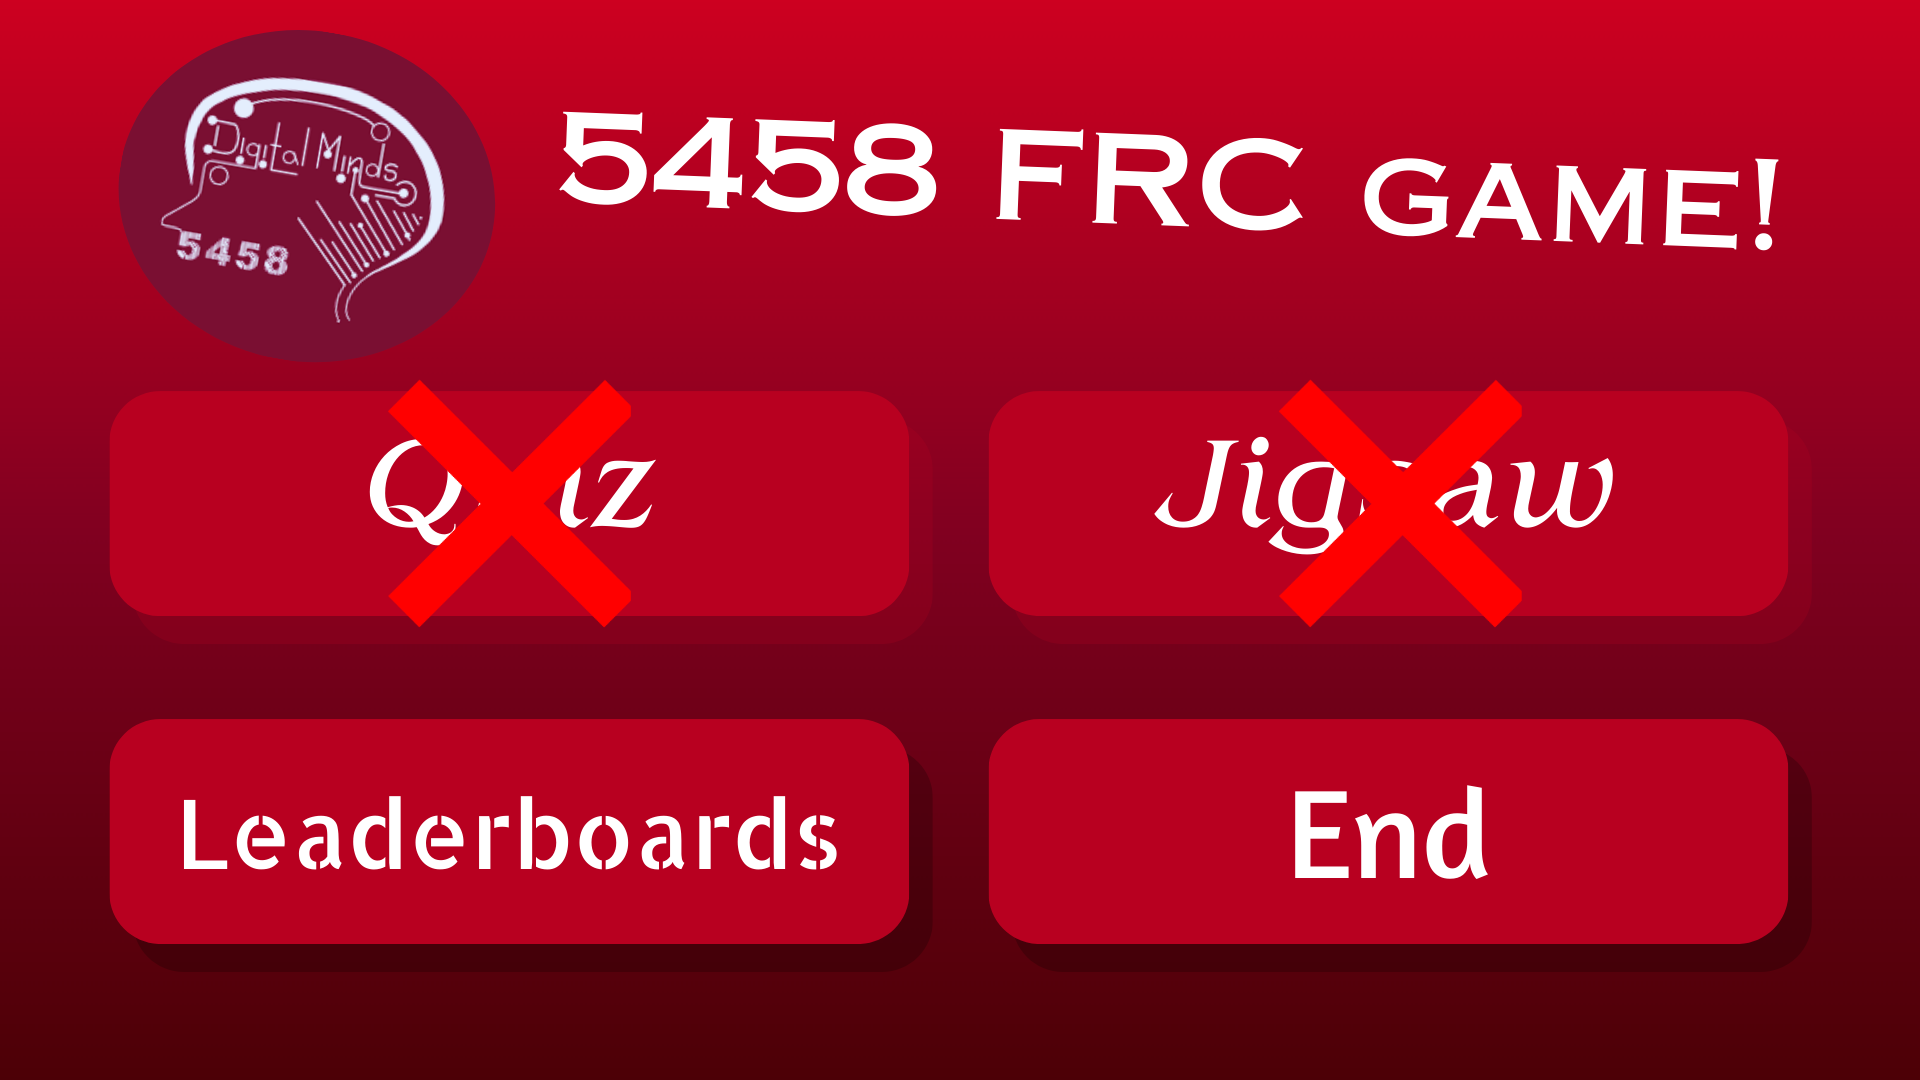
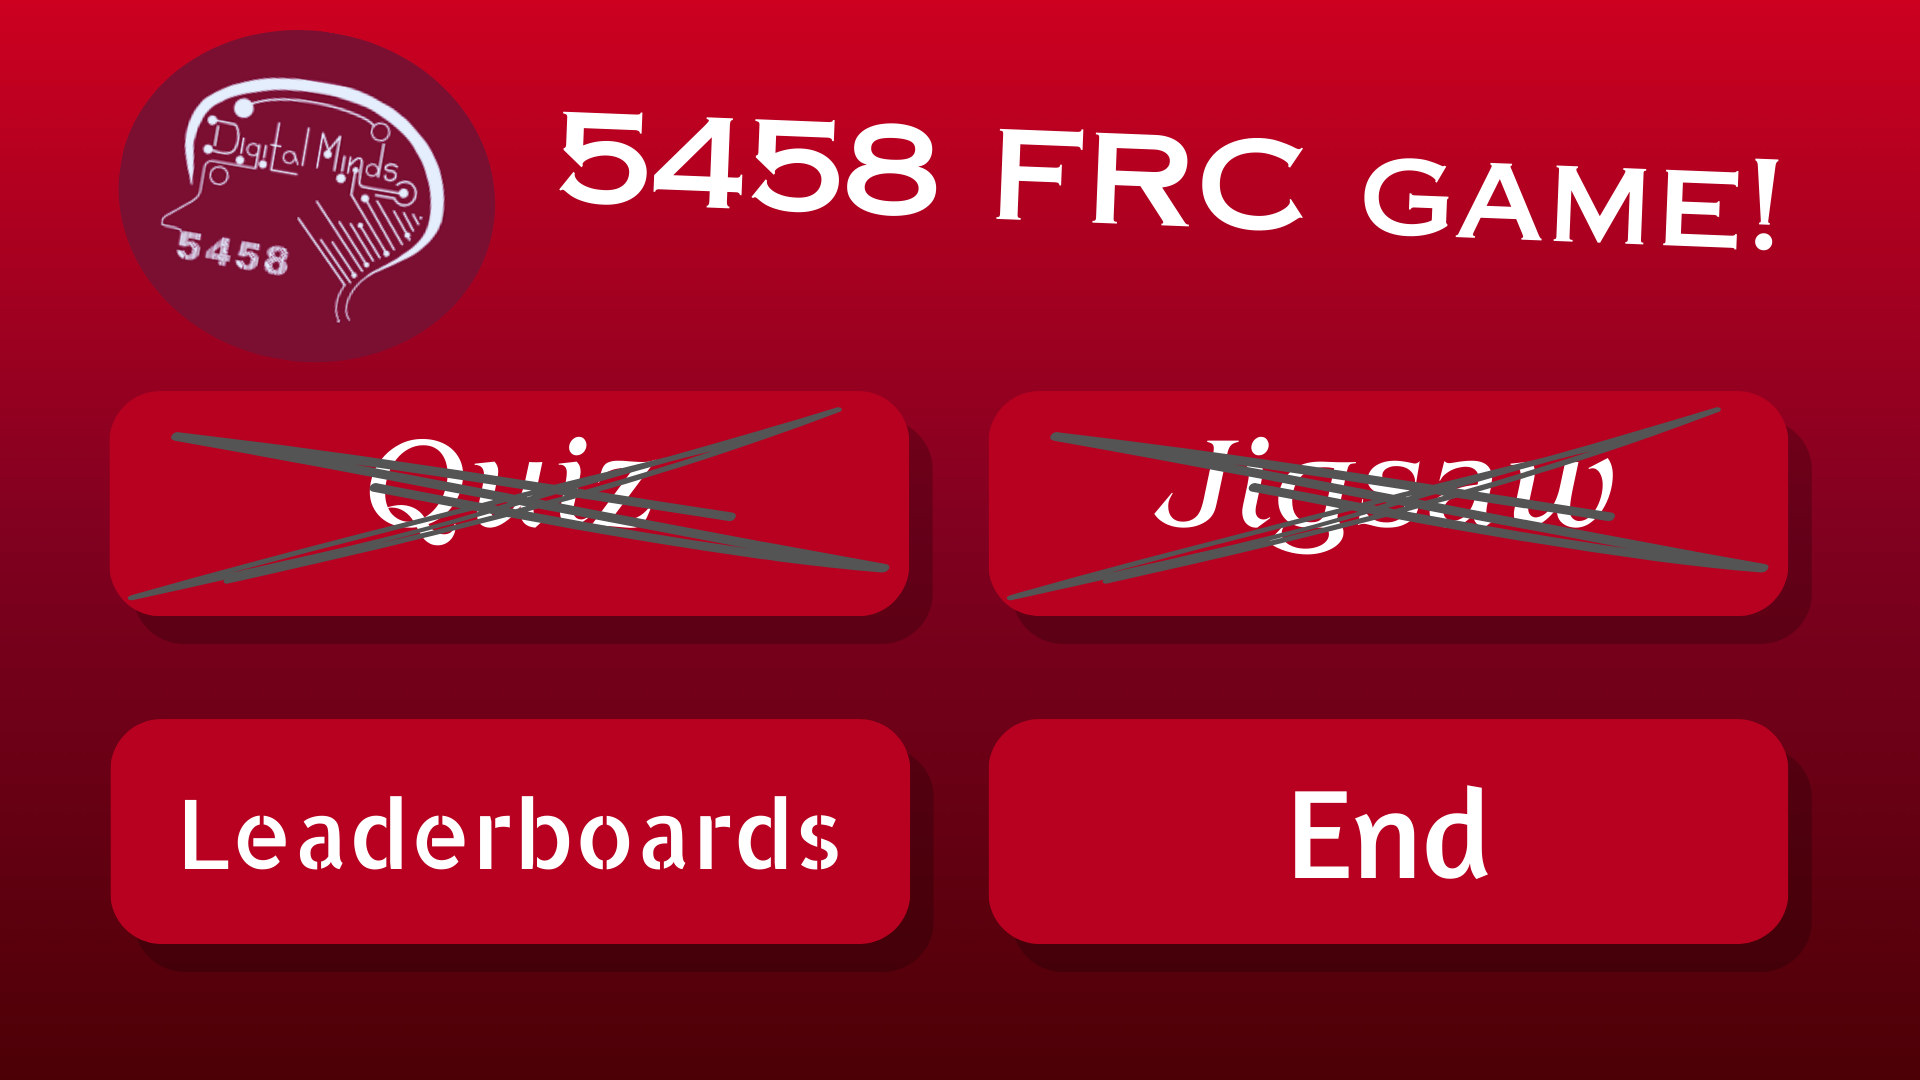
working leaderboard and better working menu

diff --git a/src/menu.py b/src/menu.py
@@ -48,7 +48,7 @@ Variables = variables()
 
 def choose_jigsaw_image():
     # Path to the images folder
-    images_folder = cwd + "\\images"
+    images_folder = cwd + "\\jiggers"
 
     # Get a list of all image files in the folder
     image_files = [f for f in os.listdir(images_folder) if f.lower().endswith((".png", ".jpg", ".jpeg"))]
@@ -72,6 +72,7 @@ def choose_jigsaw_image():
     def on_select():
         # Get the selected image file
         selected_index = listbox.curselection()
+        Variables.activated[1] = 1
         if selected_index:
             selected_image = image_files[selected_index[0]]
 
@@ -119,16 +120,48 @@ def switchLeaderboard():
         
     elif(Variables.background_label == 2):
         Variables.background_label = 1
-        # Read the Image
-        background_image = Image.open(cwd + "\\images\\menu2.png")
+        if(Variables.activated[0] == 1 and Variables.activated[1] == 1):
+            background_image = Image.open(cwd + "\\images\\menu7.png")
 
-        # Resize the image using resize() method
-        background_image = background_image.resize((screen_width, screen_height))
+            # Resize the image using resize() method
+            background_image = background_image.resize((screen_width, screen_height))
 
-        background_image = ImageTk.PhotoImage(master=root,image=background_image)
+            background_image = ImageTk.PhotoImage(master=root,image=background_image)
 
-        background_label.configure(image=background_image)
-        background_label.image = background_image
+            background_label.configure(image=background_image)
+            background_label.image = background_image
+        elif(Variables.activated[0] == 1):
+            background_image = Image.open(cwd + "\\images\\menu9.png")
+
+            # Resize the image using resize() method
+            background_image = background_image.resize((screen_width, screen_height))
+
+            background_image = ImageTk.PhotoImage(master=root,image=background_image)
+
+            background_label.configure(image=background_image)
+            background_label.image = background_image
+        elif(Variables.activated[1] == 1):
+            background_image = Image.open(cwd + "\\images\\menu8.png")
+
+            # Resize the image using resize() method
+            background_image = background_image.resize((screen_width, screen_height))
+
+            background_image = ImageTk.PhotoImage(master=root,image=background_image)
+
+            background_label.configure(image=background_image)
+            background_label.image = background_image
+            background_label.update()
+        else:
+            background_image = Image.open(cwd + "\\images\\menu2.png")
+
+            # Resize the image using resize() method
+            background_image = background_image.resize((screen_width, screen_height))
+
+            background_image = ImageTk.PhotoImage(master=root,image=background_image)
+
+            background_label.configure(image=background_image)
+            background_label.image = background_image
+            background_label.update()
         for i in range(len(tList)):
             tList[i].place_forget()
             pList[i].place_forget()
@@ -169,9 +202,9 @@ def runButton(event):
             iz = ('initial' + str(i))
             pz = ('points' + str(i))
             tz = ('team' + str(i))
-            iList.append(Label(root, text=(z[iz]), font=("Arial", 20), background='#b80020'))
-            tList.append(Label(root, text=(z[tz]), font=("Arial", 20), background='#b80020'))
-            pList.append(Label(root, text=(z[pz]), font=("Arial", 20), background='#b80020'))
+            iList.append(Label(root, text=(z[iz]), font=("Arial", 20), background='#b80020', foreground=('#FFFFFF')))
+            tList.append(Label(root, text=(z[tz]), font=("Arial", 20), background='#b80020', foreground=('#FFFFFF')))
+            pList.append(Label(root, text=(z[pz]), font=("Arial", 20), background='#b80020', foreground=('#FFFFFF')))
     x = event.x
     y = event.y
     #menu page 1
@@ -182,7 +215,6 @@ def runButton(event):
                 run_quiz()
 
             if(int(screen_width* (33/64)) < x and x < int(screen_width * (89/96)) and Variables.activated[1] == 0):
-                Variables.activated[1] = 1
                 choose_jigsaw_image()
 
         elif(int(screen_height * (2/3)) < y and y < int(screen_height * (7/8))):
@@ -196,8 +228,7 @@ def runButton(event):
     elif(Variables.background_label == 2):
         if(int(screen_height * (13/72)) < y and y < int(screen_height * (5/18))):
             if(int(screen_width* (25/32)) < x and x < int(screen_width * (15/16))):
-                print('backs')
-                backToLeaderboard()
+                switchLeaderboard()
 
     if(Variables.activated[0] == 1 and Variables.activated[1] == 1):
         background_image = Image.open(cwd + "\\images\\menu7.png")

diff --git a/src/start.py b/src/start.py
@@ -1,5 +1,6 @@
 import os
 import subprocess
+import time
 import pygame
 import pygame_gui
 import sys
@@ -61,16 +62,19 @@ def show_user_name():
 
         SCREEN.fill(BURGANDY)
 
-        userNameText = pygame.font.SysFont("bahnschrift", 100).render(f"Team name is: {var.team}", True, "white")
+        userNameText = pygame.font.SysFont("bahnschrift", WIDTH//20).render(f"Controls for quiz are arrow keys and wasd", True, "white")
         userNameRect = userNameText.get_rect(center=(WIDTH/2, HEIGHT/2))
         SCREEN.blit(userNameText, userNameRect)
 
-        passWordText = pygame.font.SysFont("bahnschrift", 100).render(f"Your initials are: {var.initial}", True, "white")
+        passWordText = pygame.font.SysFont("bahnschrift", WIDTH//20).render(f"Jigsaw controls are click and drag \n(drag the first square)", True, "white")
         passWordRect = passWordText.get_rect(center=(WIDTH/2, HEIGHT/8*6))
         SCREEN.blit(passWordText, passWordRect)
         
+        leaveText = pygame.font.SysFont("bahnschrift", WIDTH//15).render(f"Click to leave!", True, "white")
+        leaveRect = passWordText.get_rect(center=(WIDTH/16*11, HEIGHT/8))
+        SCREEN.blit(leaveText, leaveRect)
+        
         if(var.first):
-            var.first = False
             person = {
                 "initial": var.initial,
                 "team": var.team,
@@ -79,6 +83,13 @@ def show_user_name():
             with open(cwd + "\\dat\\currentPerson.pkl", "wb") as f:
                 f.truncate(0)
                 pickle.dump(person, f)
+            while(var.first):
+                events = pygame.event.get()
+                for event in events:
+                    if event.type == pygame.MOUSEBUTTONDOWN:
+                        var.first = False
+                clock.tick(60)
+                pygame.display.update()
               
             '''  TESTING FOR FILE READING DICTIONARY
             with open(cwd + "\\dat\\currentPerson.pkl", 'rb') as f:
@@ -96,7 +107,6 @@ def show_user_name():
             '''
                 
         clock.tick(60)
-
         pygame.display.update()
         subprocess.run(["python", cwd + "\\src\\menu.py"])
         pygame.quit()

diff --git a/src/jigsaw.py b/src/jigsaw.py
@@ -118,7 +118,7 @@ def main():
         def draw(self):
             screen.blit(self.text, self.location)
             
-    percent = text('freesansbold.ttf', '0', screenSize[0]/2, screenSize[1]/9, screenSize[0]//10)
+    percent = text('freesansbold.ttf', '0', screenSize[0]/2, screenSize[1]/9, screenSize[0]//16)
             
     '''def draw_grid(surface, grid_size, color=(100, 100, 100)):
         for x in range(0, screenSize[0], grid_size):
